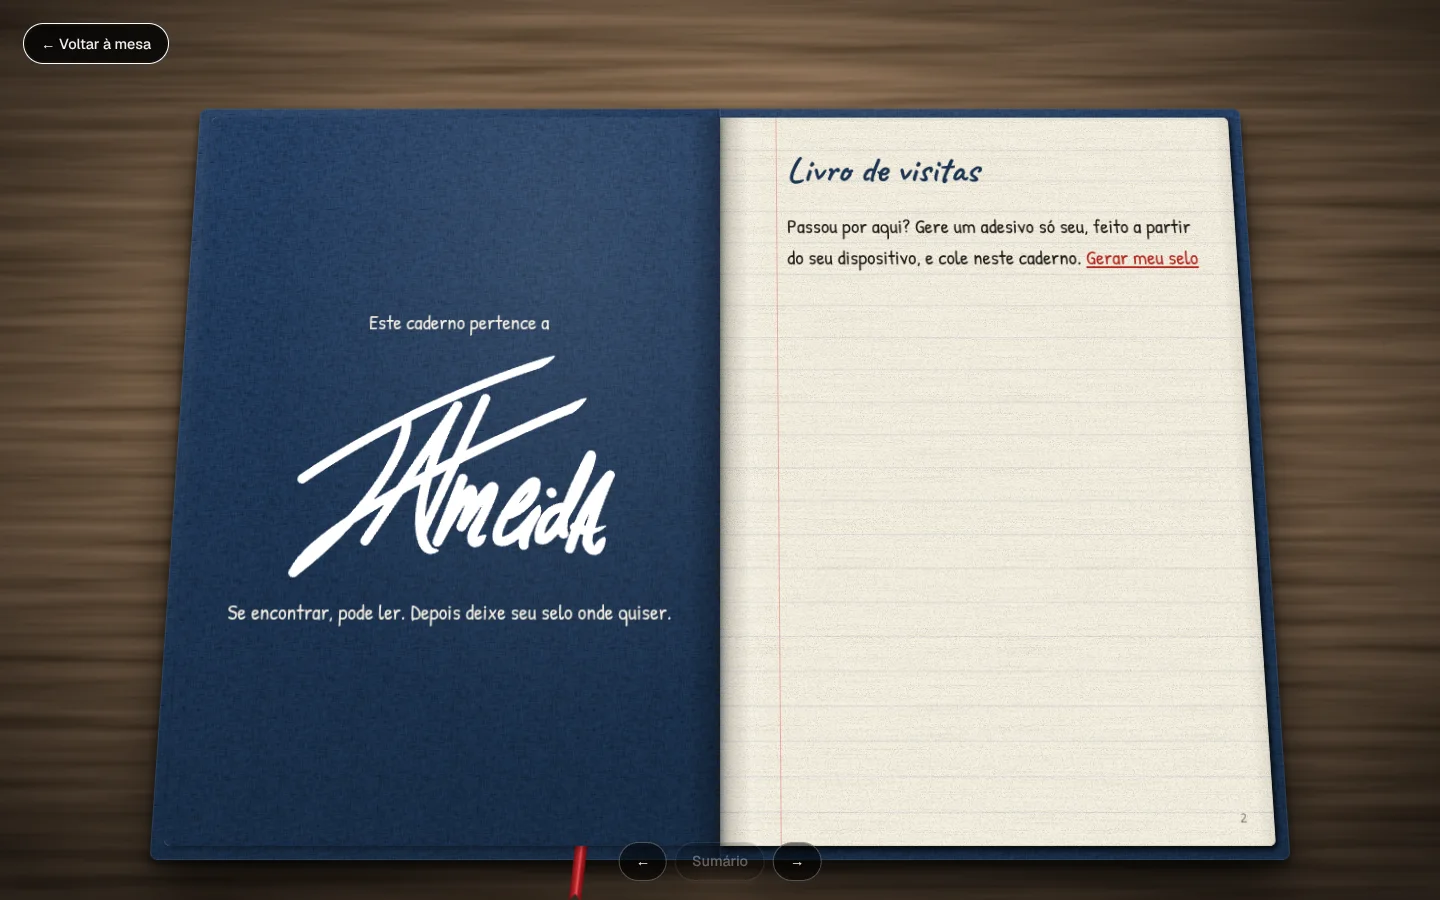
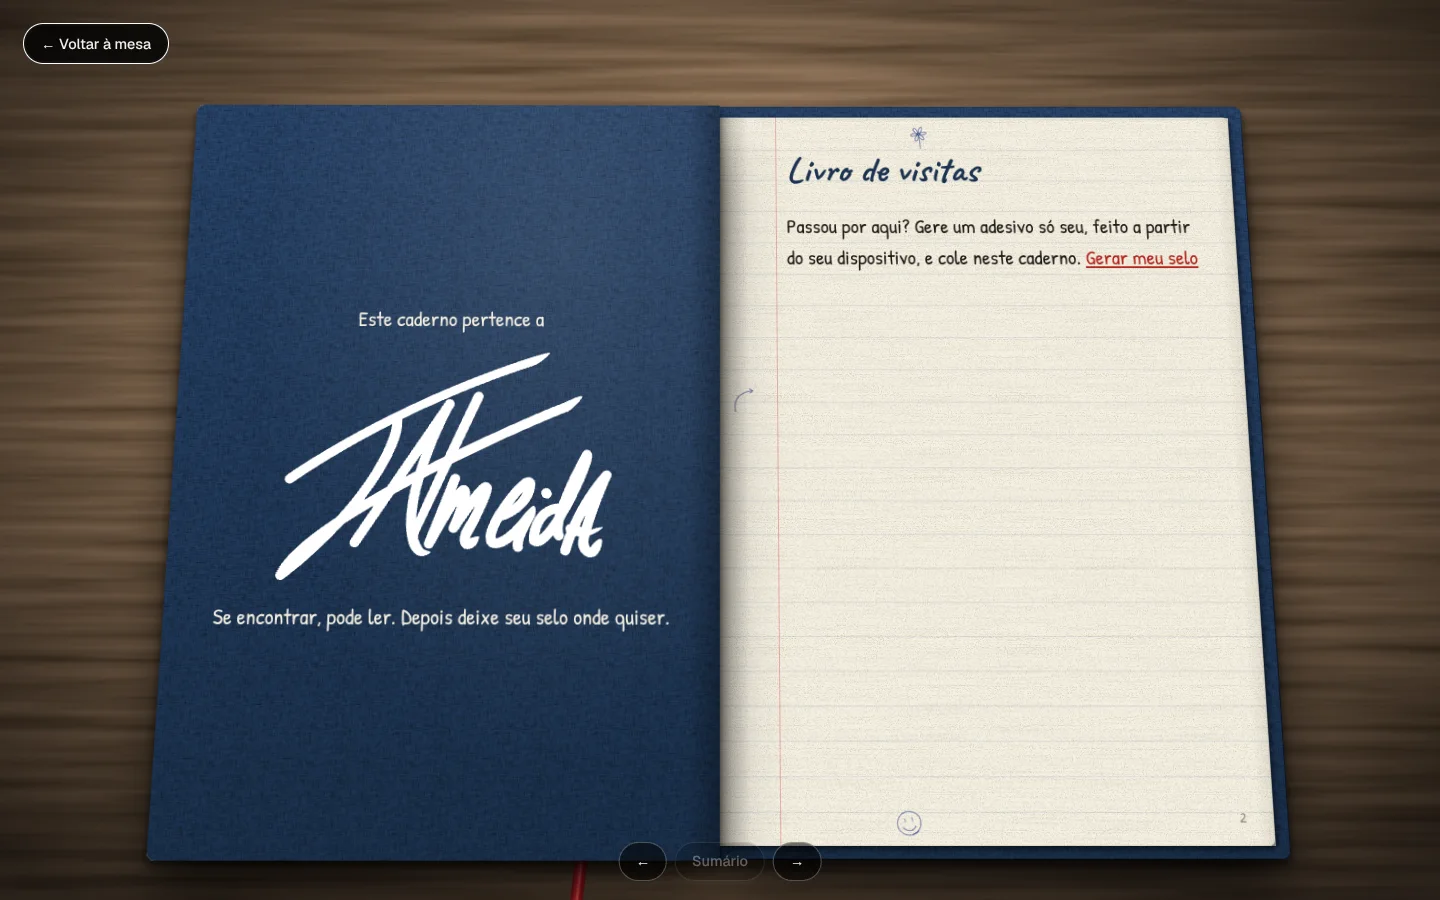
Make the notebook's covers the boards themselves
The boards were separate planes under the page block, so the closed front cover sat inside a
bigger back board, and once opened the inside of the front cover showed over a second board.
Now the first and last leaves are the boards: proud of the pages on the three free sides and
carrying the book's shadow. The last page is the endpaper, glued short of the back board's
edges. The ribbon hangs from beside the spine while the book is closed, instead of out of thin
air to its left, and changes side while a turning cover hides it.

Claude-Session: https://claude.ai/code/session_01DGPQJLkKaiTJNxGHKv36ow

diff --git a/components/ui/notebook.module.css b/components/ui/notebook.module.css
@@ -54,24 +54,26 @@
   animation: arrive 1s cubic-bezier(.15, .7, .2, 1) both;
 }
 .book[data-state="closed"] { --shift: -25%; }
-/* Hardcover boards: they stand a little proud of the page block and carry the book's shadow on the desk.
-   Each shows only while its cover lies on that side (the left one once the book is opened, the right one until the end). */
-.board {
-  position: absolute; top: -1.8%; bottom: -1.8%; width: 51.4%; transform: translateZ(calc(var(--leaves) * -1px - 3px));
-  background: radial-gradient(ellipse at 30% 20%, #ffffff12, #0000 60%), url(/textures/baked/linen.webp) 0 0 / 96px, linear-gradient(#2c4a74, #1c3452);
-  box-shadow: inset 0 0 0 1px #ffffff14, 0 .4vw .6vw #0009, 0 2.6vw 4vw -.6vw #000c;
-  transition: visibility 0s .45s;
-}
-.board[data-side="left"] { right: 50%; border-radius: 8px 0 0 8px; }
-.board[data-side="right"] { left: 50%; border-radius: 0 8px 8px 0; }
-.book[data-state="closed"] .board[data-side="left"], .book[data-state="end"] .board[data-side="right"] { visibility: hidden; transition-delay: 0s; }
-/* Satin ribbon marker: its tail hangs out under the bottom edge of the left-hand pages. */
+/* Hardcover: the first and last leaves are the boards. They stand a little proud of the page block on the three free
+   sides and carry the book's shadow, so each cover is the same board closed, opened, or seen from inside. */
+.leaf[data-cover] { top: -1.8%; height: 103.6%; width: 51.4%; }
+.leaf[data-cover] .face { box-shadow: inset 0 0 0 1px #ffffff14, 0 .4vw .6vw #0009, 0 2.6vw 4vw -.6vw #000c; }
+.leaf[data-cover] .face[data-side="front"] { border-radius: 0 8px 8px 0; }
+.leaf[data-cover] .face[data-side="back"] { border-radius: 8px 0 0 8px; }
+/* Inside of the back board: the last page is its endpaper, glued down short of the board's edges (by the overhang). */
+.leaf[data-cover="back"] { border-radius: 0 8px 8px 0; background: url(/textures/baked/linen.webp) 0 0 / 96px, linear-gradient(#2c4a74, #1c3452); }
+.leaf[data-cover="back"] .face[data-side="front"] { border: solid #0000; border-width: 2.5cqi 2.7cqi 2.5cqi 0; background-clip: padding-box; border-radius: 0 8px 8px 0; }
+/* Satin ribbon marker: its tail hangs out under the bottom edge, from the left-hand pages while the book is open and
+   from beside the spine while it lies closed. Under the back board, so it never shows past a cover. */
 .ribbon {
-  position: absolute; left: 37%; top: 99%; width: 1.1%; height: 8%; transform: translateZ(calc(var(--leaves) * -1px - 2px)) rotate(6deg); transform-origin: top;
+  position: absolute; left: 37%; top: 101.5%; width: 1.1%; height: 8%; transform: translateZ(calc(var(--leaves) * -1px - 2px)) rotate(6deg); transform-origin: top;
   background: linear-gradient(90deg, #6d0d12, #c0262d 40%, #e8585c 52%, #a3171d 70%, #6d0d12);
   clip-path: polygon(0 0, 100% 0, 100% 100%, 50% 88%, 0 100%);
   filter: drop-shadow(.2vw .4vw .2vw #0008);
+  transition: left 0s .45s; /* moves while the turning cover hides it */
 }
+.book[data-state="closed"] .ribbon { left: 54%; }
+.book[data-state="end"] .ribbon { left: 44%; }
 .book[data-state="end"] { --shift: 25%; }
 .leaf {
   position: absolute; left: 50%; top: 0; width: 50%; height: 100%;

diff --git a/components/ui/notebook.tsx b/components/ui/notebook.tsx
@@ -242,15 +242,13 @@ function Book({ articles, stamps, onPlaced, onClose }: { articles: Article[]; st
       onAnimationEnd={(e) => { if (closing && e.target === e.currentTarget) onClose(); }}
     >
       <div className={styles.book} data-state={flipped === 0 ? "closed" : flipped === leaves ? "end" : "open"} data-page={left ? "left" : "right"} style={{ "--leaves": leaves } as CSSProperties}>
-        <span className={styles.board} data-side="left" />
-        <span className={styles.board} data-side="right" />
         <span className={styles.ribbon} />
         {Array.from({ length: leaves }, (_, i) => {
           const turned = i < flipped;
           // Leaves turned in one jump go one after the other, starting from the one nearest the reader.
           const order = flipped > from ? i - from : from - 1 - i;
           return (
-            <div key={i} className={styles.leaf} data-turned={turned} style={{ "--z": `${turned ? i : -i}px`, "--delay": `${Math.max(0, Math.min(order, 8)) * 90}ms` } as CSSProperties}>
+            <div key={i} className={styles.leaf} data-turned={turned} data-cover={i === 0 ? "front" : i === leaves - 1 ? "back" : undefined} style={{ "--z": `${turned ? i : -i}px`, "--delay": `${Math.max(0, Math.min(order, 8)) * 90}ms` } as CSSProperties}>
               {[2 * i, 2 * i + 1].map((f) => (
                 <div key={f} className={styles.face} data-side={f % 2 ? "back" : "front"} inert={f !== 2 * flipped - 1 && f !== 2 * flipped}>
                   {f > 0 && f < faces.length - 1 && <Doodles seed={seed + f * 7919} back={f % 2 === 1} />}
